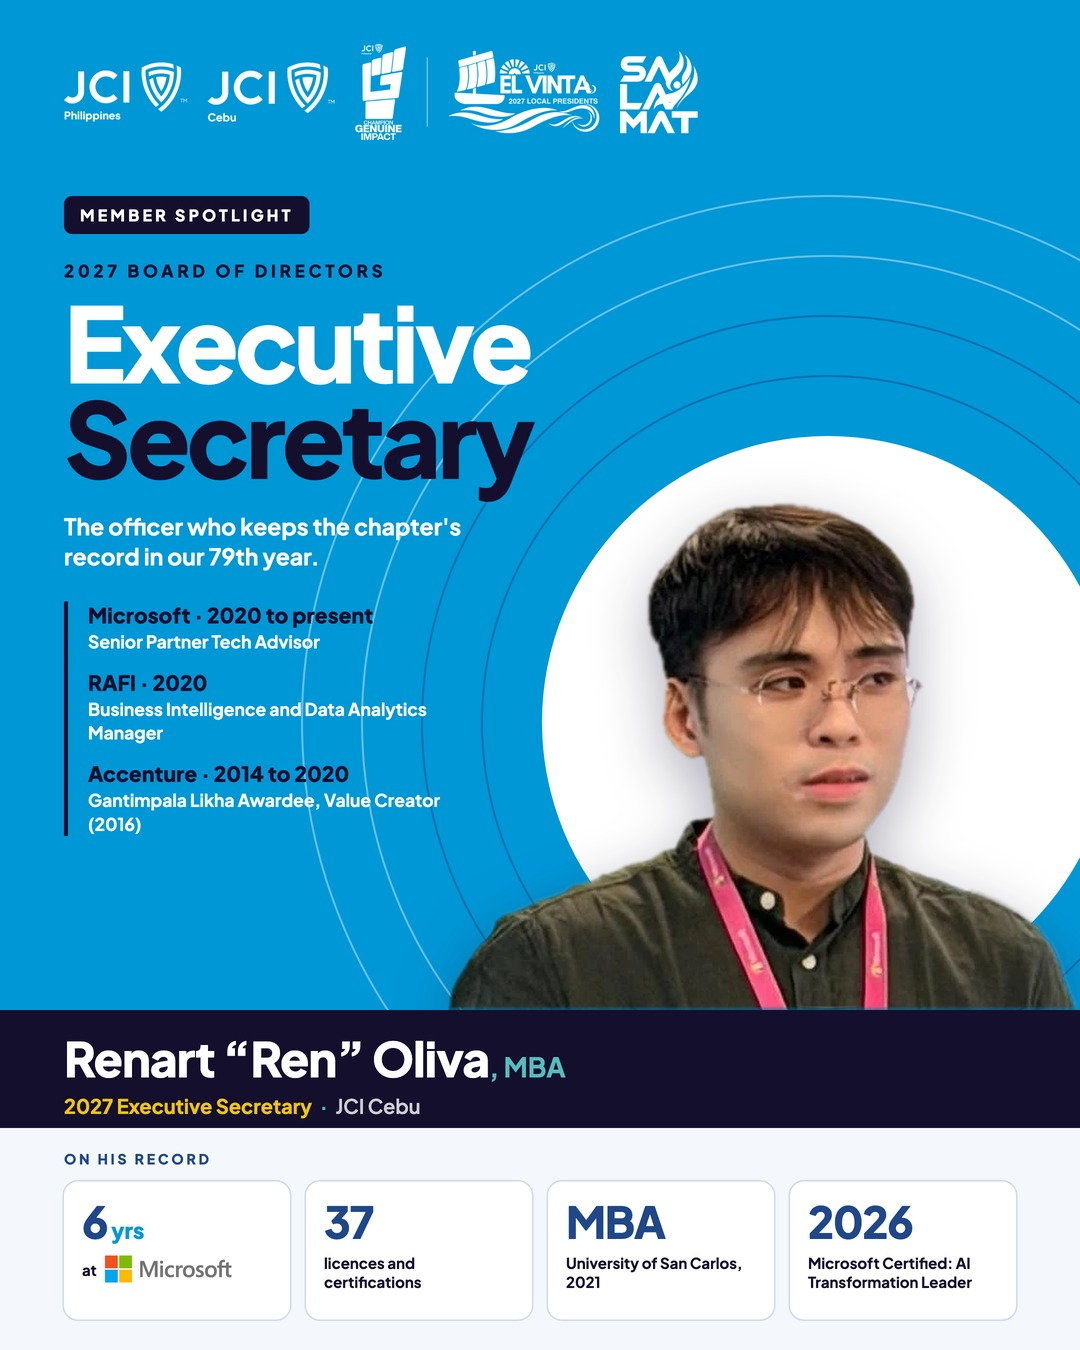
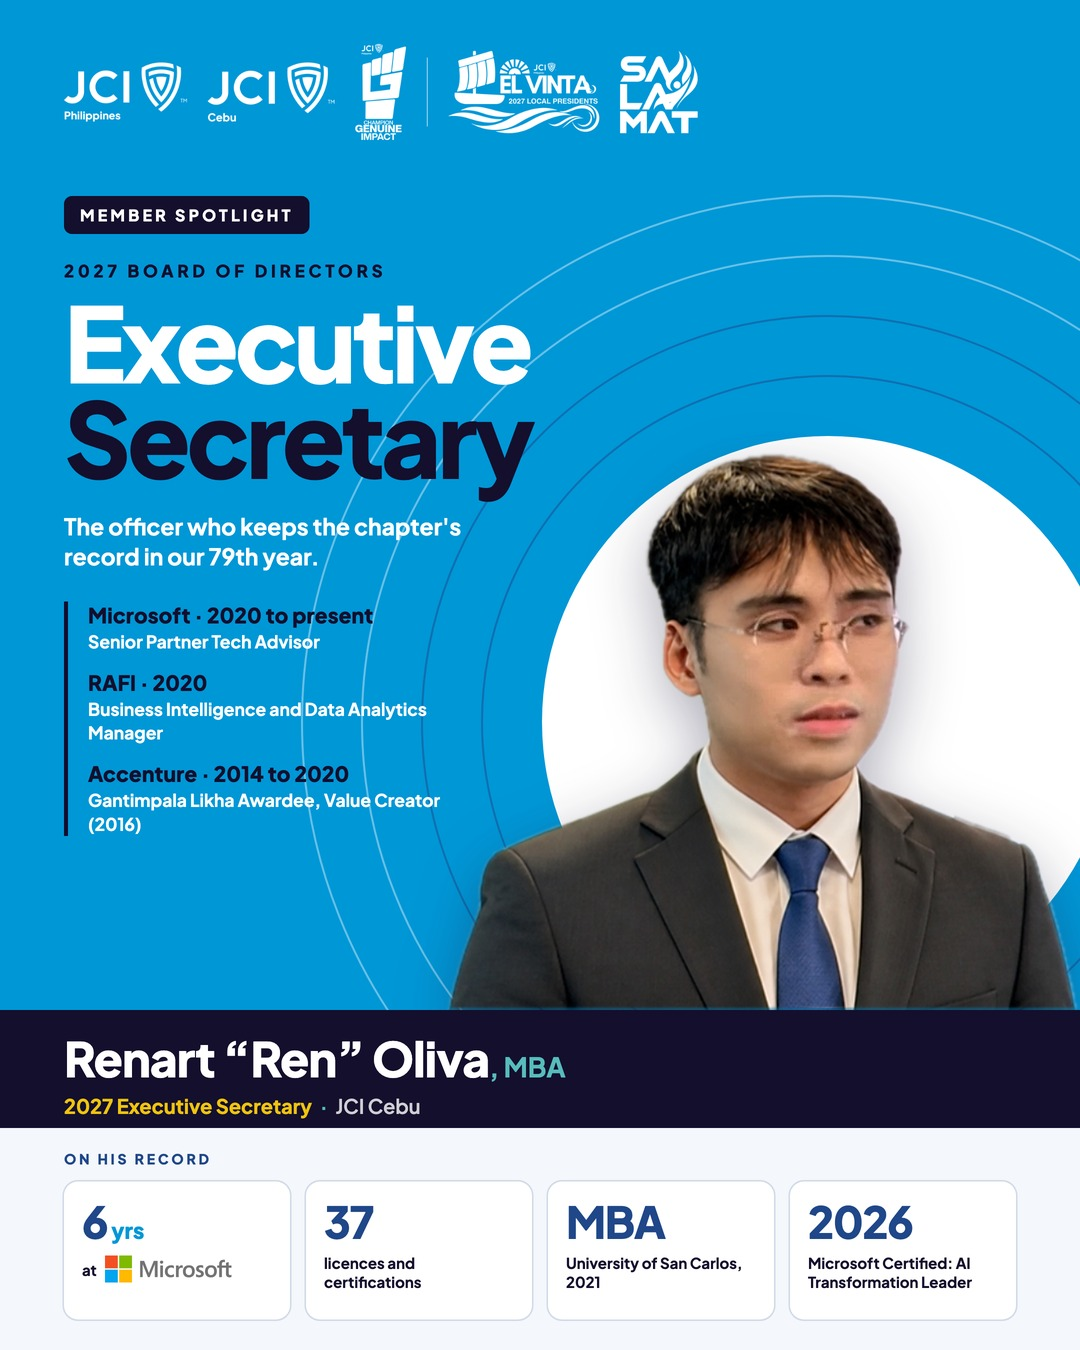
Ren Oliva spotlight: his chosen photo in suit and blue tie

Changed region(s): [[0.3972, 0.3111, 1.0, 0.7467], [0.5194, 0.7156, 0.55, 0.7467]]

diff --git a/index.html b/index.html
@@ -185,8 +185,8 @@ Congratulations, Nel. JCI Cebu is proud of you.
   </div>
 </article>
 <article class="card" id="ren-oliva">
-  <a class="shot" href="img/jci-cebu-ren-oliva.jpg?v=1794850877" target="_blank" rel="noopener">
-    <img src="img/jci-cebu-ren-oliva.jpg?v=1794850877" alt="Spotlight pubmat for Renart “Ren” Oliva, MBA" width="1080" height="1350" loading="lazy">
+  <a class="shot" href="img/jci-cebu-ren-oliva.jpg?v=1794851133" target="_blank" rel="noopener">
+    <img src="img/jci-cebu-ren-oliva.jpg?v=1794851133" alt="Spotlight pubmat for Renart “Ren” Oliva, MBA" width="1080" height="1350" loading="lazy">
   </a>
   <div class="body">
     <div class="meta"><span class="st st-draft">draft</span></div>
@@ -194,7 +194,7 @@ Congratulations, Nel. JCI Cebu is proud of you.
     <p class="role">2027 Executive Secretary</p>
     
     <div class="actions">
-      <a class="btn primary" href="img/jci-cebu-ren-oliva.jpg?v=1794850877" download="jci-cebu-ren-oliva.jpg">Download image</a>
+      <a class="btn primary" href="img/jci-cebu-ren-oliva.jpg?v=1794851133" download="jci-cebu-ren-oliva.jpg">Download image</a>
       <button class="btn" data-copy="fb-3">Copy FB caption</button>
       <button class="btn" data-copy="ig-3">Copy IG caption</button>
     </div>
